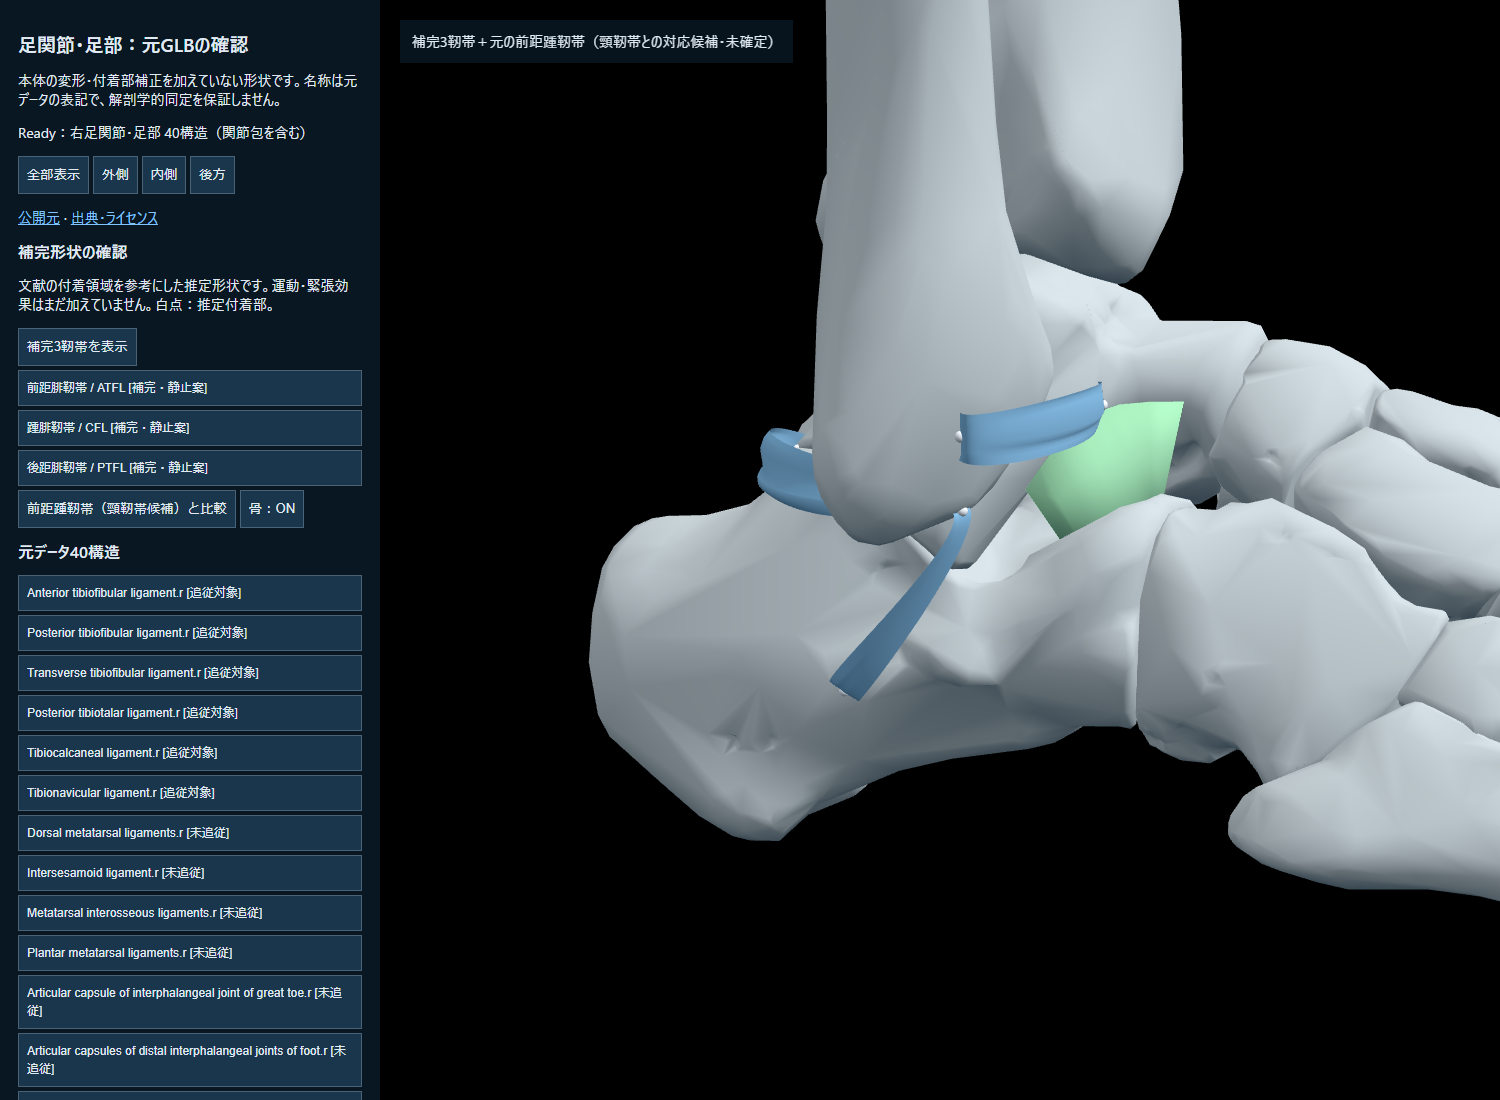
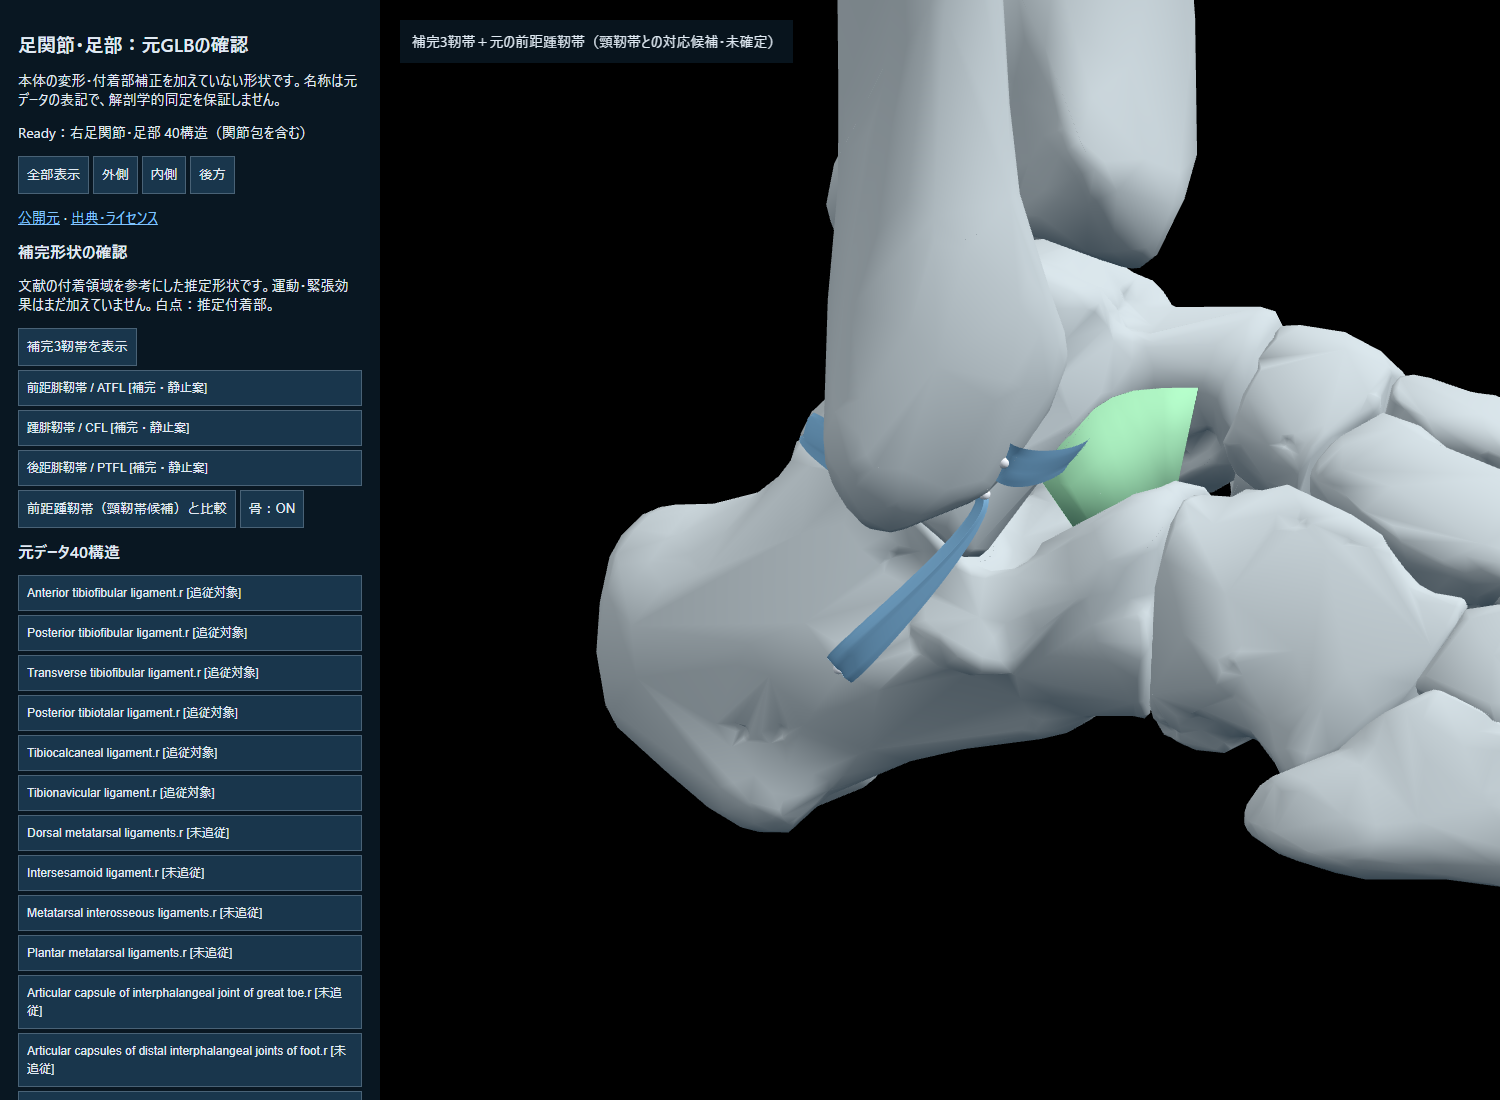
Refine lateral ankle attachment regions after anatomical review

diff --git a/src/ankle-supplements.js b/src/ankle-supplements.js
@@ -10,14 +10,14 @@ export function createAnkleSupplements(bones){
  function fit(seed,surface,normalPreference){
   const local=seed.clone().applyMatrix4(surface.inverse),candidates=surface.faces.map(f=>{
    const p=f.triangle.closestPointToPoint(local,new Vector3()).applyMatrix4(surface.world),n=f.triangle.getNormal(new Vector3()).multiplyScalar(surface.normalSign).transformDirection(surface.world);
-   return {p,n,surface,triangle:f.triangle,score:p.distanceToSquared(seed),facing:!normalPreference||n.dot(normalPreference)>-.1};
+   return {p,n,surface,triangle:f.triangle,score:p.distanceToSquared(seed),facing:!normalPreference||n.dot(normalPreference.clone().normalize())>.65};
   }).filter(c=>c.facing&&outside(c.p,surface));
   candidates.sort((a,b)=>a.score-b.score);if(!candidates.length)throw Error('No exposed attachment surface');return candidates[0];
  }
  const entries=[];
  for(const spec of ankleSupplements){
-  const distal=bones.get(spec.bone),seed=tip.clone().add(new Vector3(spec.fibularSide==='anterior'?0:.006,spec.fibularHeight,spec.fibularSide==='anterior'?.008:-.003));
-  const a=fit(seed,fibula,spec.fibularSide==='anterior'?new Vector3(-.2,0,1):new Vector3(1,0,-.3)),b=fit(new Vector3(...spec.distalSeed),distal,spec.id==='PTFL'?new Vector3(0,0,-1):new Vector3(-1,0,0));
+  const distal=bones.get(spec.bone),seed=tip.clone().add(new Vector3(...spec.fibularOffset));
+  const a=fit(seed,fibula,spec.fibularSide==='anterior'?new Vector3(0,0,1):new Vector3(1,0,0)),b=fit(new Vector3(...spec.distalSeed),distal,spec.id==='PTFL'?new Vector3(0,0,-1):spec.id==='ATFL'?new Vector3(-.7,0,.7):new Vector3(-1,0,0));
   const axis=b.p.clone().sub(a.p).normalize(),outward=new Vector3(...spec.outward).normalize(),side=new Vector3().crossVectors(axis,outward).normalize(),rows=48,cols=8,anchors=new Map(),base=[],indices=[],handle=Math.min(.004,a.p.distanceTo(b.p)*.25);
   for(let r=0;r<=rows;r++)for(let c=0;c<=cols;c++){
    const t=r/rows,lateral=(c/cols-.5)*spec.width*(.8+.2*Math.sin(Math.PI*t));let p;
@@ -28,7 +28,7 @@ export function createAnkleSupplements(bones){
   // Each fibre connects its own footprint rather than a central origin.
   for(let c=0;c<=cols;c++){const fa=anchors.get(c),fb=anchors.get(rows*(cols+1)+c);for(let r=1;r<rows;r++){const t=r/rows;base[r*(cols+1)+c]=fa.p.clone().multiplyScalar((1-t)**3).addScaledVector(fa.p.clone().addScaledVector(fa.n,handle),3*(1-t)**2*t).addScaledVector(fb.p.clone().addScaledVector(fb.n,handle),3*(1-t)*t*t).addScaledVector(fb.p,t**3);}}
   for(let r=0;r<rows;r++)for(let c=0;c<cols;c++){const i=r*(cols+1)+c;indices.push(i,i+1,i+cols+1,i+1,i+cols+2,i+cols+1);}
-  const build=height=>base.map((p,i)=>anchors.has(i)?p.clone():p.clone().addScaledVector(outward,Math.sin(Math.PI*Math.floor(i/(cols+1))/rows)*height));
+  const build=height=>base.map((p,i)=>{if(anchors.has(i))return p.clone();const t=Math.floor(i/(cols+1))/rows,c=i%(cols+1),direction=spec.id==='PTFL'?outward.clone().lerp(anchors.get(rows*(cols+1)+c).n,t*t).normalize():outward;return p.clone().addScaledVector(direction,Math.sqrt(Math.sin(Math.PI*t))*height);});
   const valid=ps=>ps.every((p,i)=>anchors.has(i)||outside(p))&&indices.every((_,i)=>i%3||outside(ps[indices[i]].clone().add(ps[indices[i+1]]).add(ps[indices[i+2]]).divideScalar(3)));
   let height=0,positions=build(0);for(;height<.025&&!valid(positions);height+=.00025)positions=build(height+.00025);
   const routeValid=valid(positions);if(!routeValid)throw Error(spec.id+': static route could not clear bones');

diff --git a/config/ankle-supplements.js b/config/ankle-supplements.js
@@ -1,8 +1,10 @@
 // Review seeds in the pinned model's world metres, not patient measurements.
-// Clanton 2014 (PMID 24951749) supplies regional attachment landmarks;
+// Clanton 2014 (PMID 24951749), Haytmanek 2015 (PMID 25325559):
+// distinguish landmark distance from vertical offset; anterior-border vs fossa.
+// Regional landmarks inform these explicitly estimated 3D offsets;
 // the surface matching and illustrative widths below are original estimates.
 export const ankleSupplements=[
- {id:'ATFL',name:'Anterior talofibular ligament.r',jp:'前距腓靭帯',bone:'Talus.r',fibularHeight:.0138,fibularSide:'anterior',distalSeed:[-.090,.068,-.025],width:.007,outward:[-1,0,.25]},
- {id:'CFL',name:'Calcaneofibular ligament.r',jp:'踵腓靭帯',bone:'Calcaneus.r',fibularHeight:.0053,fibularSide:'anterior',distalSeed:[-.099,.035,-.058],width:.005,outward:[-1,0,0]},
- {id:'PTFL',name:'Posterior talofibular ligament.r',jp:'後距腓靭帯',bone:'Talus.r',fibularHeight:.0048,fibularSide:'medial-posterior',distalSeed:[-.077,.062,-.064],width:.008,outward:[0,0,-1]}
+ {id:'ATFL',name:'Anterior talofibular ligament.r',jp:'前距腓靭帯',bone:'Talus.r',fibularOffset:[.001,.009,.010],fibularSide:'anterior',distalSeed:[-.087,.061,-.029],width:.007,outward:[-1,0,.25]},
+ {id:'CFL',name:'Calcaneofibular ligament.r',jp:'踵腓靭帯',bone:'Calcaneus.r',fibularOffset:[.001,.003,.0045],fibularSide:'anterior',distalSeed:[-.099,.039,-.060],width:.005,outward:[-1,0,0]},
+ {id:'PTFL',name:'Posterior talofibular ligament.r',jp:'後距腓靭帯',bone:'Talus.r',fibularOffset:[.007,.005,-.002],fibularSide:'medial-posterior',distalSeed:[-.083,.064,-.069],width:.007,outward:[.6,0,-1]}
 ];

diff --git a/docs/ANKLE_SUPPLEMENTS_DESIGN.md b/docs/ANKLE_SUPPLEMENTS_DESIGN.md
@@ -8,9 +8,9 @@
 
 [Clantonら2014、献体14足の解剖計測](https://pubmed.ncbi.nlm.nih.gov/24951749/)を、付着領域の選択根拠とした。腓骨側の前方2靭帯は外果前縁、後距腓靭帯は外果内側の窩に対応する領域を選ぶ。遠位側はATFLが距骨外側面前縁、CFLが踵骨外側面、PTFLが距骨後外側の領域。
 
-論文で外果先端からの距離として報告された13.8、5.3、4.8mmを、モデル上の初期シードの目安に用いた。ただし本文の表面上のランドマーク距離を、今回のモデルでそのまま実測したわけではない。モデルの最下点からの上下成分を初期値とし、方向・骨表面・他骨による被覆を照合して投影した推定値である。遠位付着座標も、当該モデルの推定座標であって論文から転記した座標ではない。骨の個体差・ランドマークの同定誤差を含む。
+初版では、論文で外果先端からの距離として報告された13.8、5.3、4.8mmを上下の高さへ置き換えていた。これは距離と方向成分の混同であり、修正版では撤回した。ただし本文のランドマーク間の距離を、今回のモデルでそのまま実測したわけではない。修正版ではモデルの最下点に対する3Dオフセットを明示し、付着面の向きと領域を絞って投影する。これらのオフセットは文献の直接計測値ではなく推定値である。遠位付着座標も、当該モデルの推定座標であって論文から転記した座標ではない。骨の個体差・ランドマークの同定誤差を含む。
 
-幅7/5/8mmと中間部の断面・曲がりは、見やすさを考慮した模式寸法で、文献の平均幅や生体形状の再現値と主張しない。原著にあるATFLの単束・二束の変異のうち、まず単一帯として作成。付着面の幅を持つ滑らかな帯で表現し、張力・弛緩・病態はまだ付与しない。
+幅7/5/7mmと中間部の断面・曲がりは、見やすさを考慮した模式寸法で、文献の平均幅や生体形状の再現値と主張しない。原著にあるATFLの単束・二束の変異のうち、まず単一帯として作成。付着面の幅を持つ滑らかな帯で表現し、張力・弛緩・病態はまだ付与しない。
 
 ## 形状・検証
 
@@ -41,3 +41,14 @@
 | 頸靭帯 | 前距踵靭帯が対応候補。未確定として比較表示 |
 
 今回の補完形状は既存の原GLB部品とは区別して記録する。文献の図や第三者の追加メッシュを複製したものではなく、モデルの骨表面と推定付着領域から生成した教育用の形状案である。ユーザーの静止形状確認が次の段階。
+
+## 添付スライドとの照合後の修正
+
+ユーザー提示の外側面・後方面の図を参照し、原著[Haytmanekら2015](https://pubmed.ncbi.nlm.nih.gov/25325559/)も再確認。投影距離と解剖学的なランドマーク間距離は、世界座標の上下成分とは同じではない。2Dスライドの画素位置も、そのまま3D座標には変換していない。
+
+- ATFL：腓骨側を約5.0mm下方・3.1mm前方へ修正。距骨側も外側関節面前縁寄りに調整し、中心間距離は25.3→19.0mm、上下差は約1.0mmとなった。
+- CFL：外果前縁のATFLより低い付着と、踵骨外側面への後下方の走行を維持して投影位置を調整。中心間距離は27.8mm。
+- PTFL：腓骨内側・後方の窩に対応する領域から距骨後方へ走る形にし、付着面の方向を厳しく限定した。中間部の経路方向は距骨側の表面法線へ連続的に合わせ、不要な後方への膨らみは6.0→0.75mmへ減少。
+- 端部投影では面法線が希望方向から大きく外れる面を除外する。骨に触れるだけの任意の面を採用しない。
+
+検証は実描画の頂点での端部接触・中間頂点と面重心での骨内外判定、左右・前後・上下の相対走行を対象とする。これらは解剖学的な付着点の正しさを証明するものではない。現在もユーザーによる位置・走行の確認段階であり、運動追従には進めていない。
